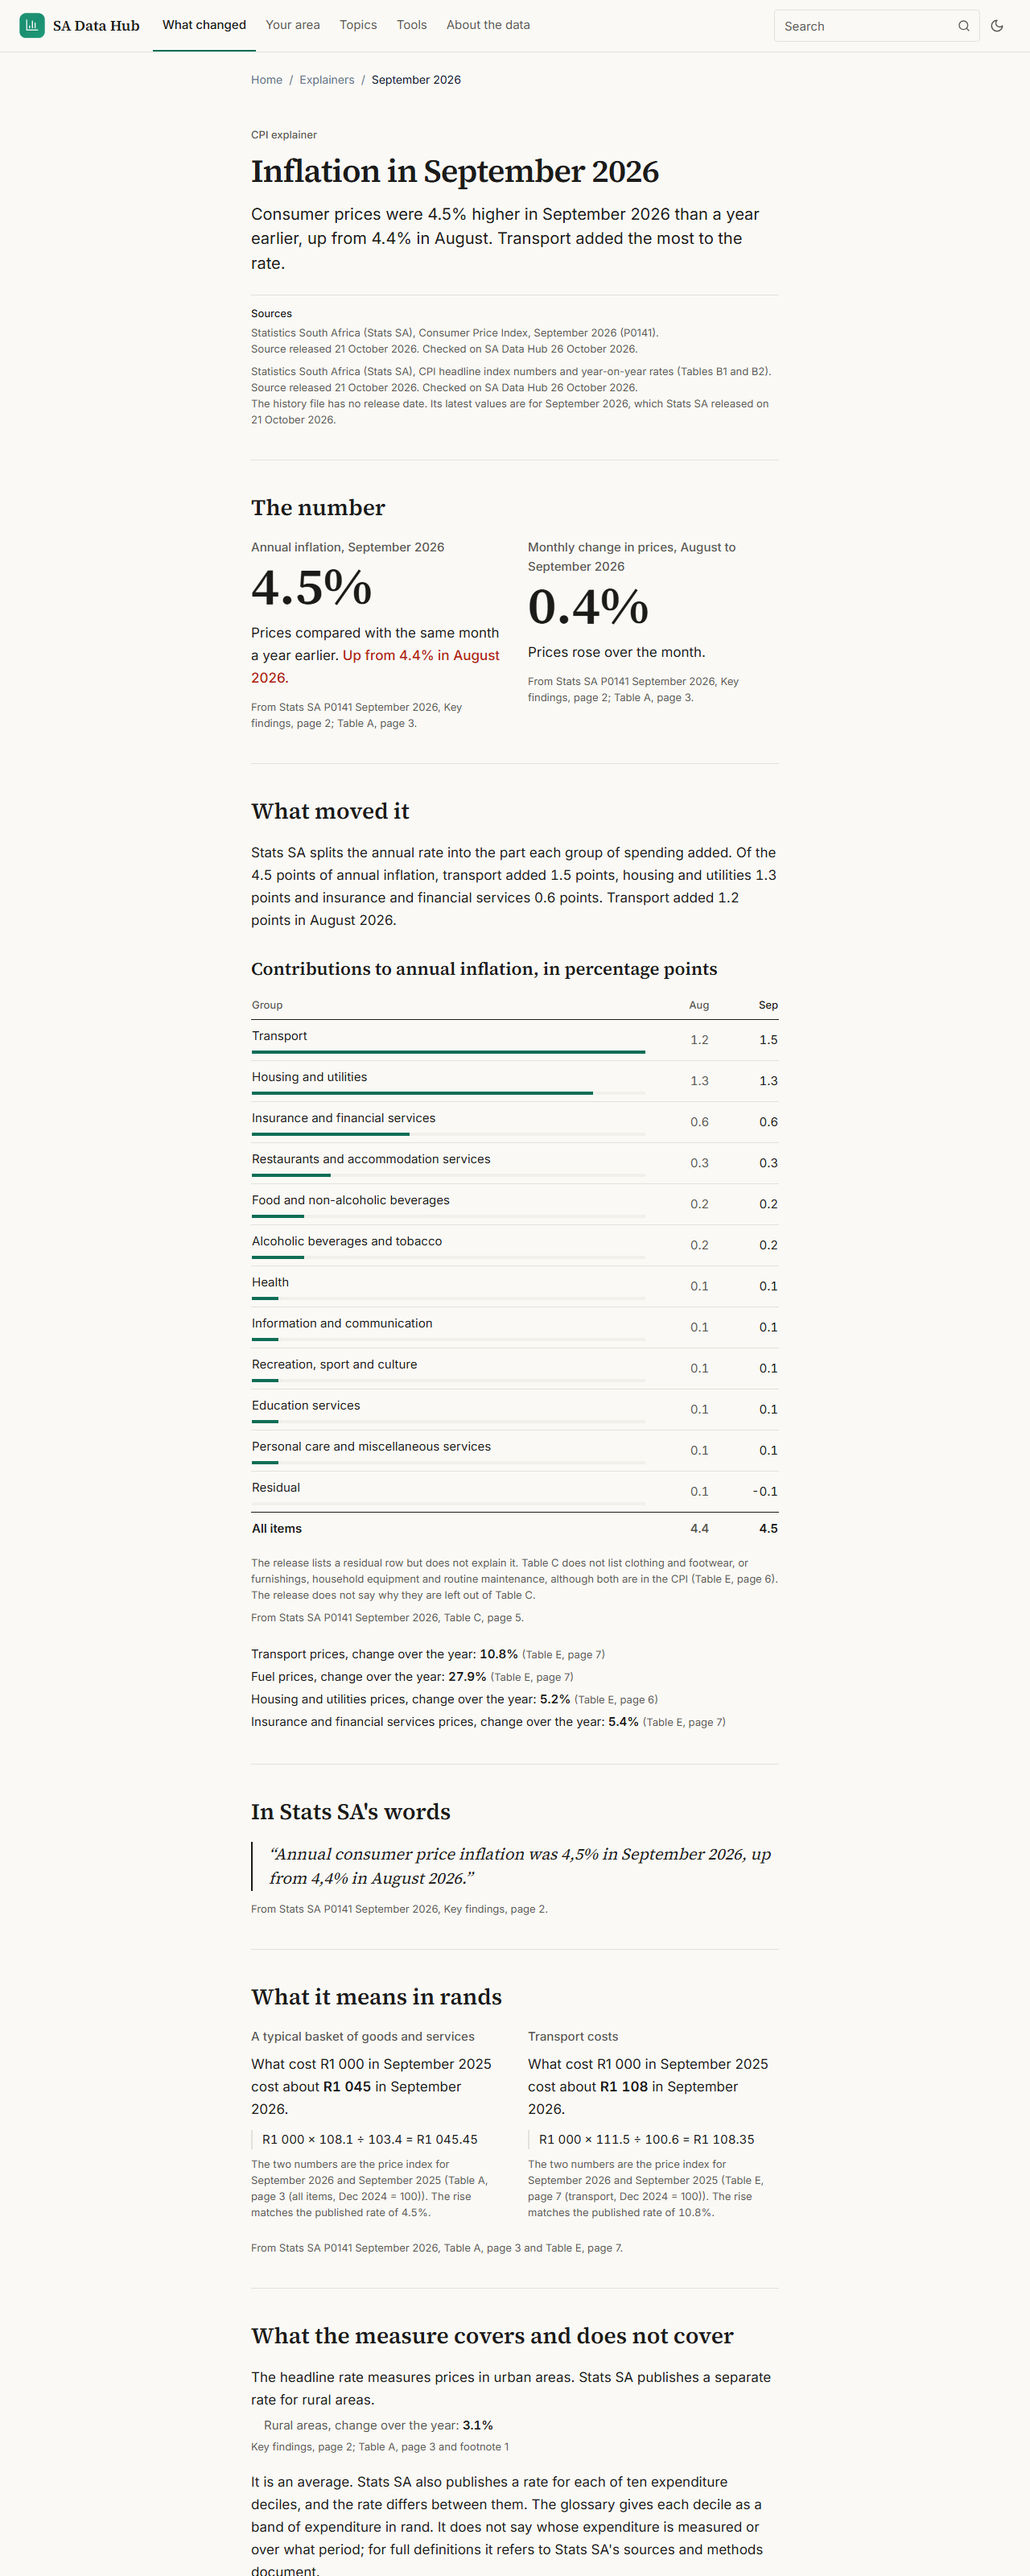
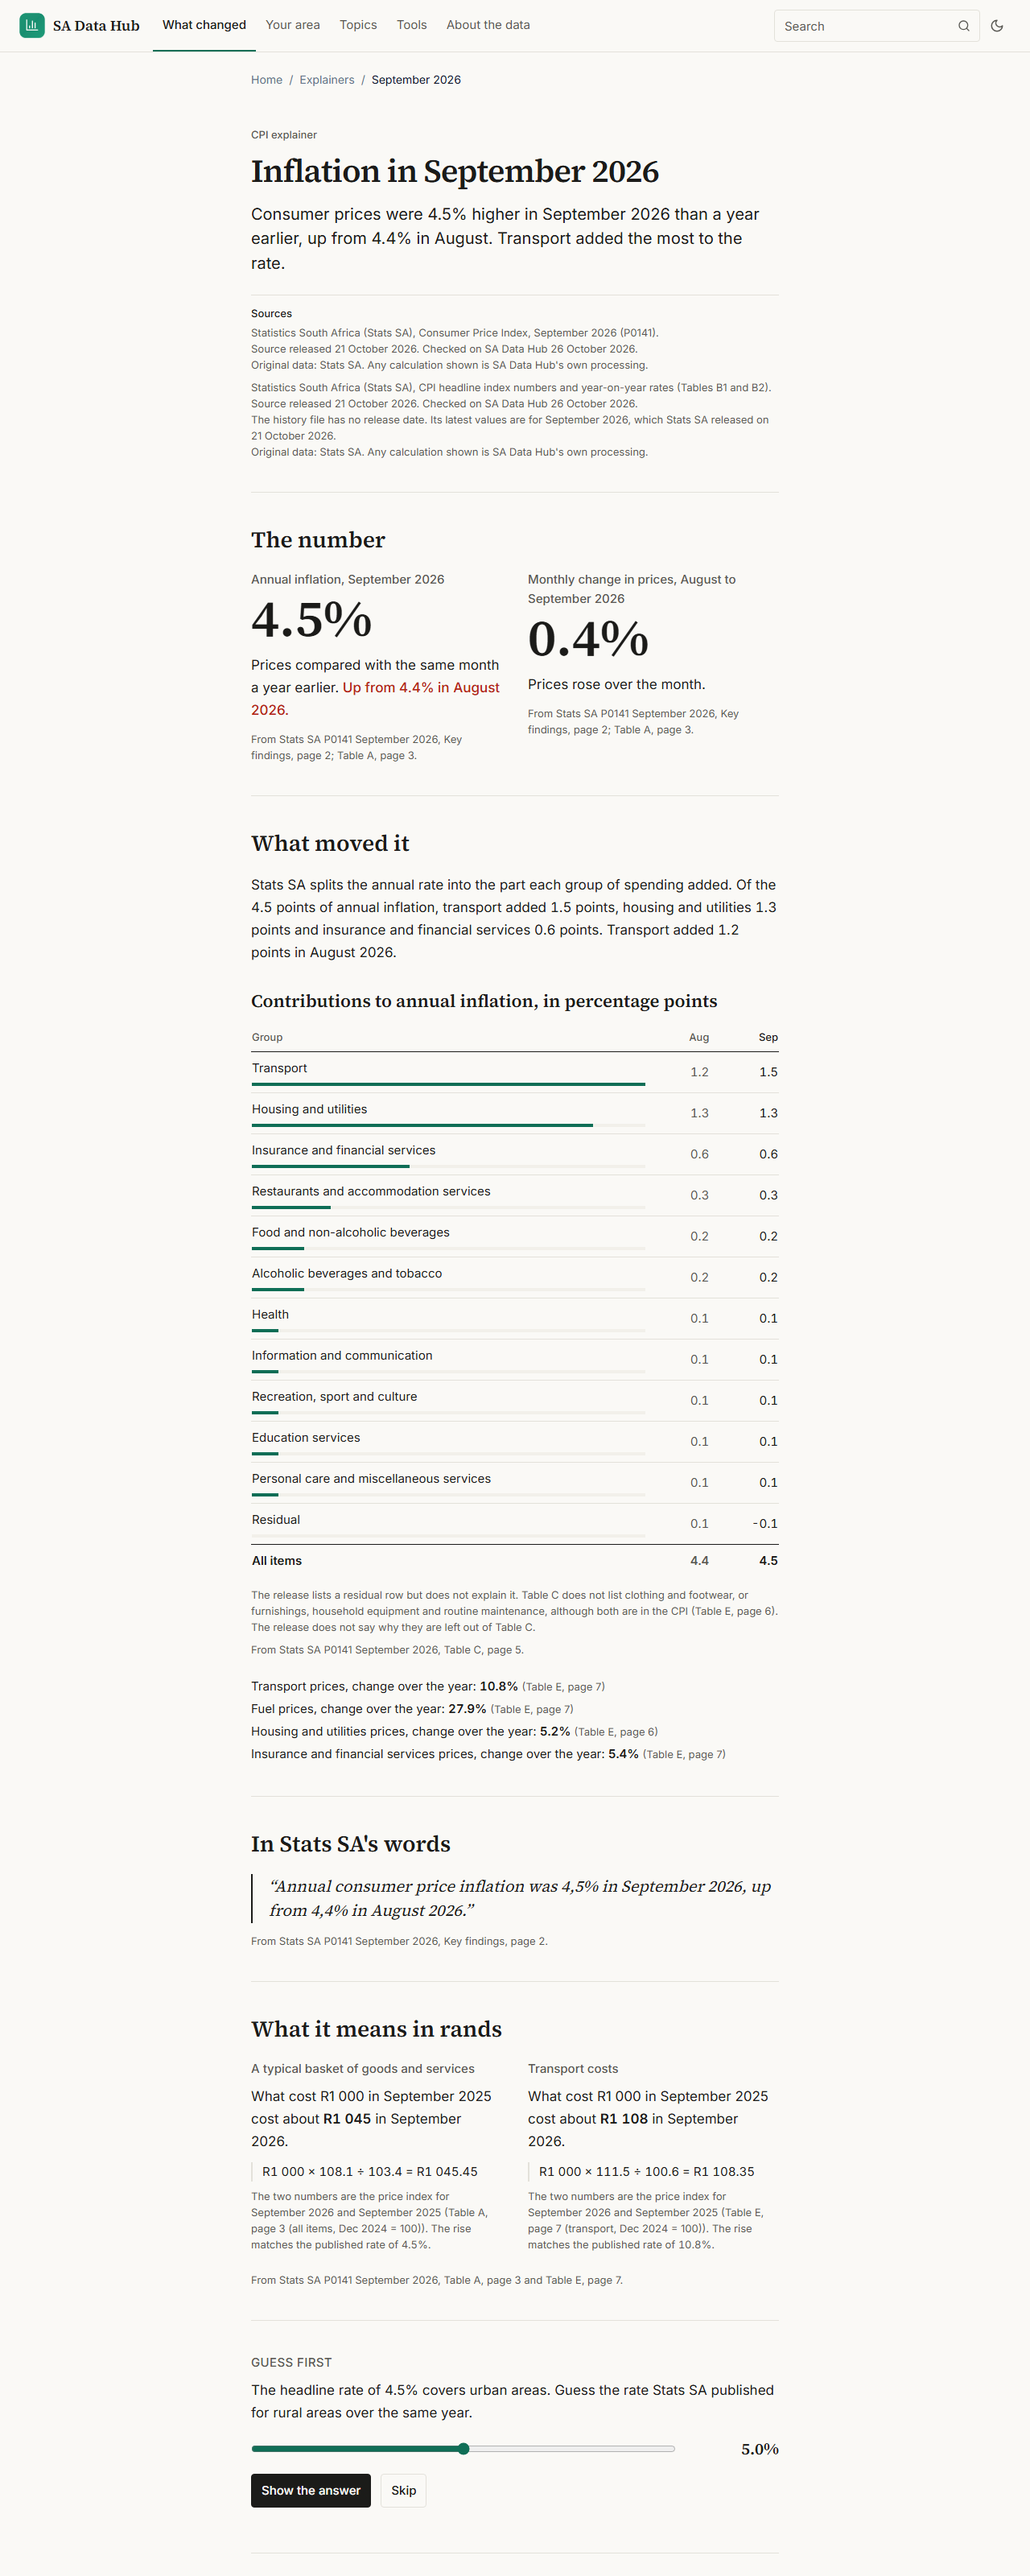
Retake the case-study after screenshots on current main

Changed region(s): [[0.25, 0.125, 0.75, 1.0], [0.5, 0.7812, 0.75, 0.875], [0.7188, 0.125, 0.75, 0.1562]]

diff --git a/docs/case-study/README.md b/docs/case-study/README.md
@@ -19,7 +19,7 @@ So the people arriving were mostly South Africans looking up a place, and the si
 
 ## What changed
 
-The work followed the product direction in `docs/PRODUCT_DIRECTION.md`, in pull requests #2 to #30.
+The work followed the product direction in `docs/PRODUCT_DIRECTION.md`, in pull requests #2 to #46.
 
 **Release explainers.** One page per official release: the number, what moved it in the source's own words, a worked calculation and what the measure does not cover. CPI for September 2026 came first, then unemployment for the second quarter of 2026, with a section on why South Africa publishes more than one unemployment rate.
 
@@ -30,6 +30,8 @@ The work followed the product direction in `docs/PRODUCT_DIRECTION.md`, in pull 
 **Trust layer.** A build step fails if a figure on the homepage, a topic page or a municipality page has no source, no release date or no checked date. The same check already covered the explainers. Figures that could not be traced were withheld rather than shown without a date, and each withholding is recorded. The corrections log at `/updates` lists old and new values.
 
 **Discoverability.** Unique titles and descriptions on every page, schema.org Dataset data that points to a CSV file per dataset, and an RSS feed of explainers, stories and updates.
+
+**Answers, search and tools.** Pull requests #32 to #43 added 22 answer pages for questions people search for, each answering in its first sentence with the number, period and source. They also added a header search over places, statistics, answers, explainers, stories and tools; a tool to compare two or three municipalities; a share image for every municipality page; and a "Guess first" block on four pages. The "How it compares" section on municipality pages was rebuilt after its text overlapped on wide screens.
 
 **Performance and accessibility.** The dashboard stopped loading every dataset in the browser (324 kB to 239 kB of JavaScript on first load), and the provinces page became server-rendered (307 kB to 107 kB). After the footer's contrast was fixed, an automated accessibility check (axe) found no serious issues on the homepage, a topic page, the CPI explainer and the calculator, and keyboard focus was visible at every stop on six pages. The rebuilt municipality page has not been checked yet.
 
@@ -43,7 +45,7 @@ The work followed the product direction in `docs/PRODUCT_DIRECTION.md`, in pull 
 
 ## Before and after
 
-Before: the site at pull request #14, when the CPI explainer already existed but the rest of the site still had the old design, dark by default. After: the work in pull requests #23 and #24, light by default. Same pages, same widths.
+Before: the site at pull request #14, when the CPI explainer already existed but the rest of the site still had the old design, dark by default. After: `main` on 28 October 2026, after pull request #46, light by default. Same pages, same widths. Each image is the top of the page (3200 px at desktop width, 5200 px on a phone).
 
 | Page | Before | After |
 | --- | --- | --- |
